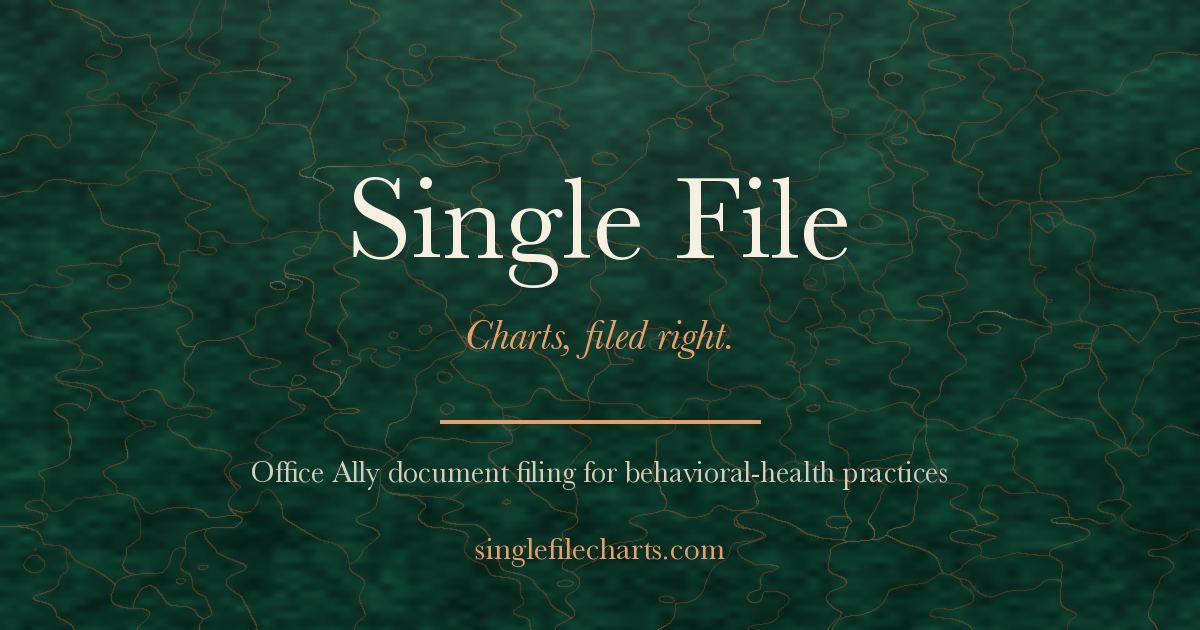
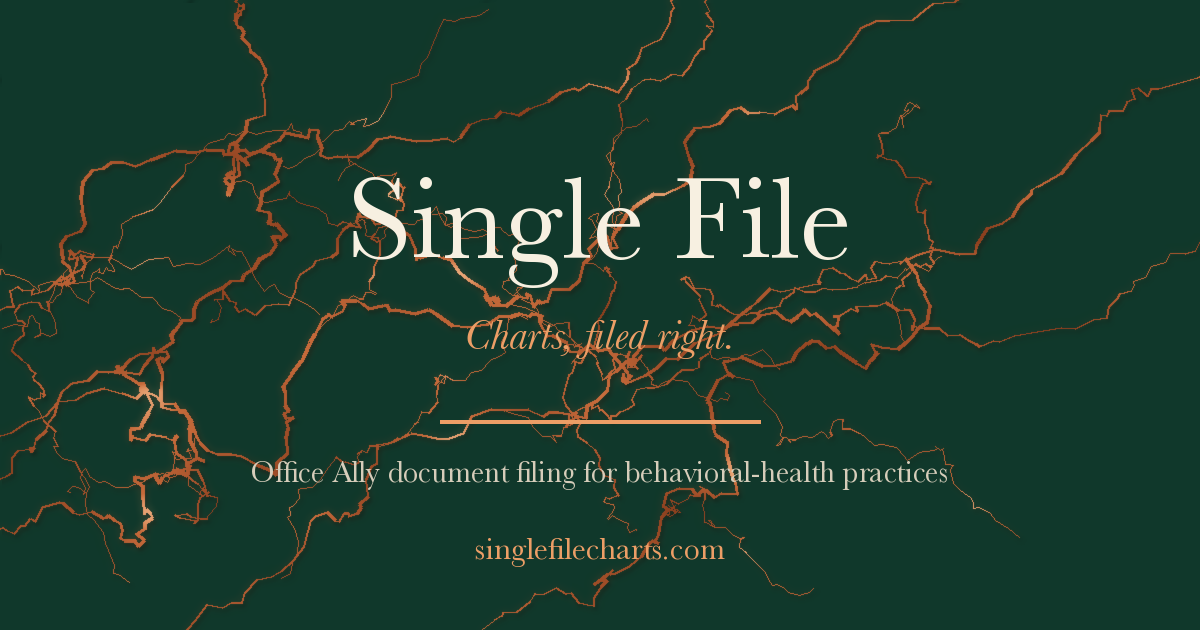
Plain jade hero with realistic branching kintsugi seams; relative asset path

diff --git a/index.html b/index.html
@@ -123,7 +123,7 @@
 
   /* Hero */
   header.hero{
-    background:var(--emerald-d) url('/assets/hero-bg.jpg') center/cover no-repeat;
+    background:#10382B url('assets/hero-bg.jpg') center/cover no-repeat;
     color:var(--cream); text-align:center; padding:64px 24px 64px;
   }
   header.hero .brand{font-family:var(--serif-head); font-weight:700; color:var(--cream);